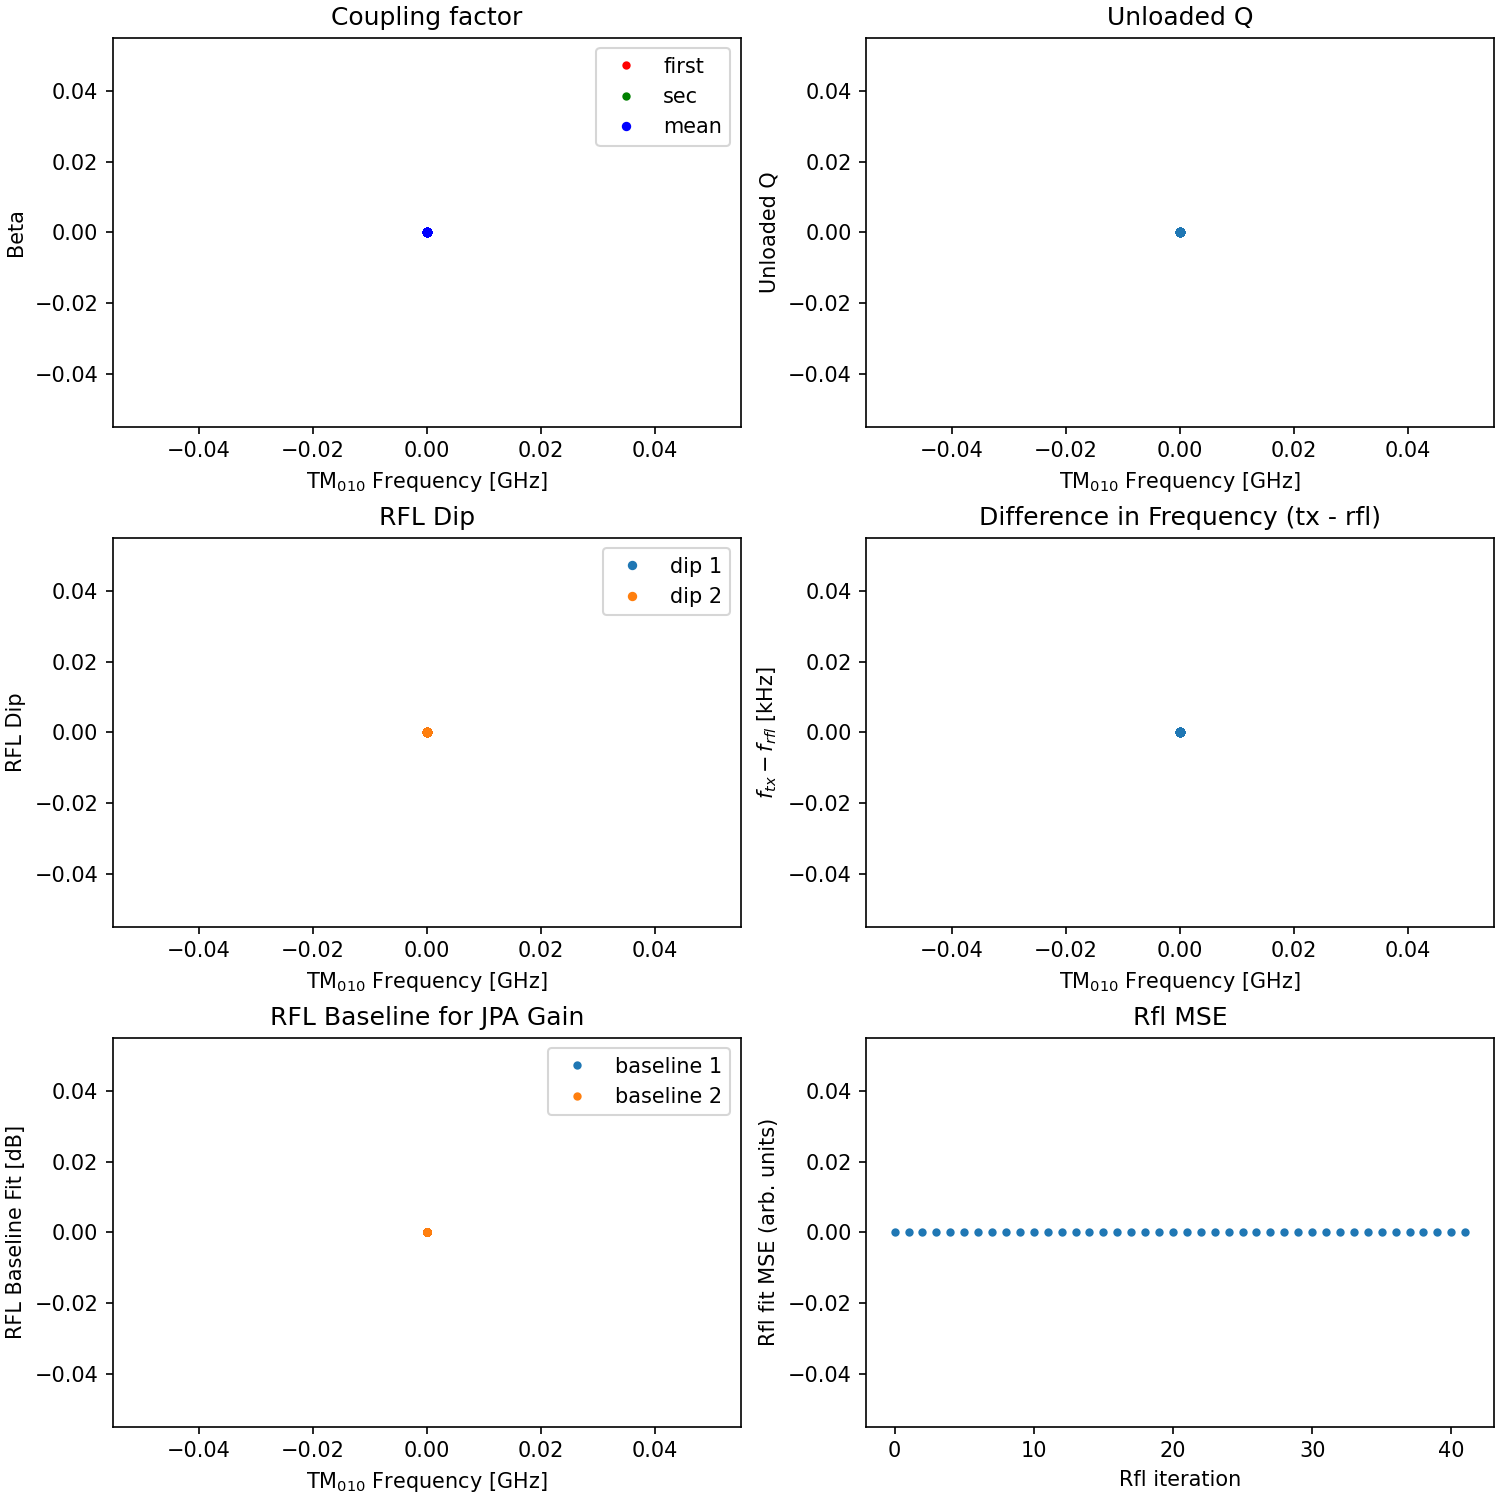
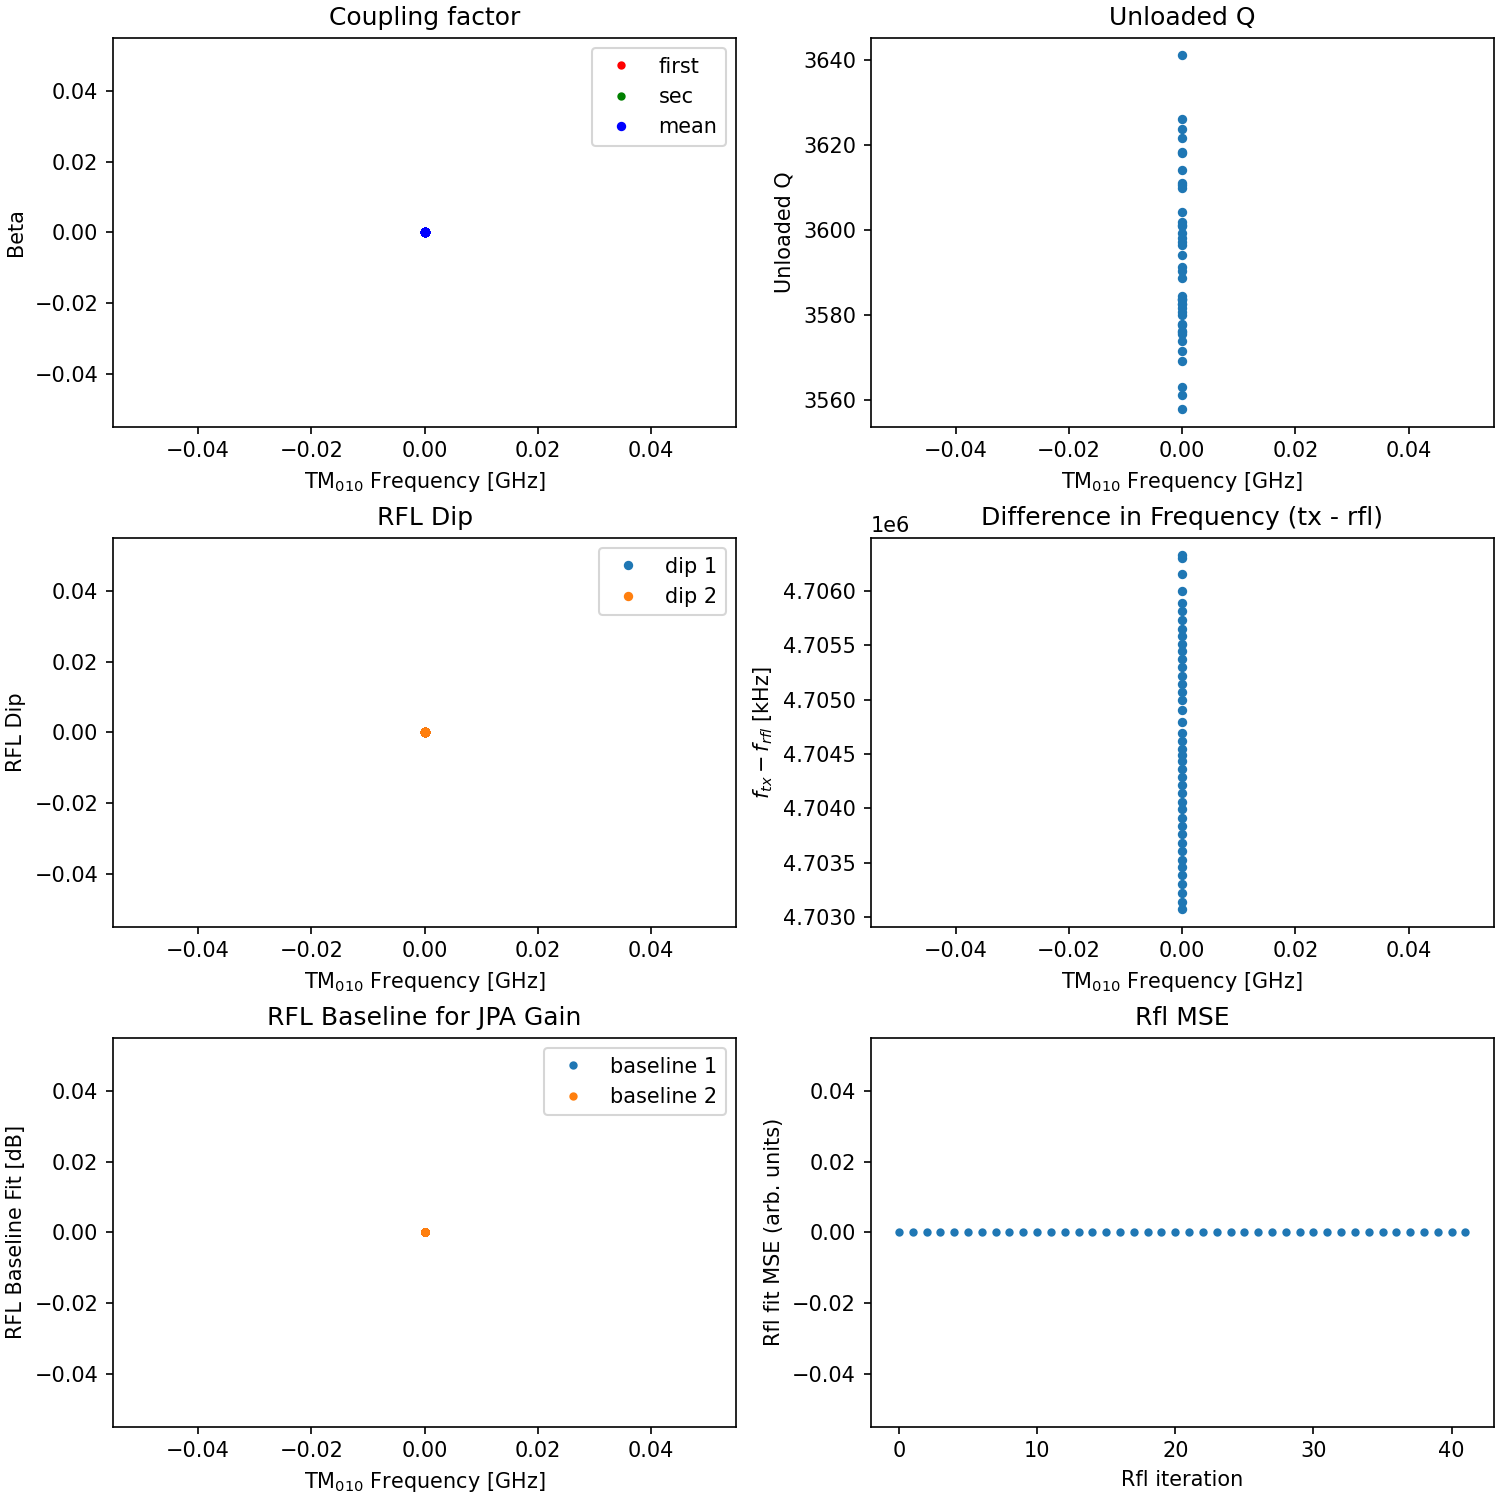
Fixed transmission_analysis

diff --git a/src/dark_photon/analysis/pipeline/stages/transmission_analysis.py b/src/dark_photon/analysis/pipeline/stages/transmission_analysis.py
@@ -94,14 +94,15 @@ class TransmissionAnalysisStage(PipelineStage):
                 warnings.warn(f"Error processing transmission file {tx2_file}: {e}")
                 continue
         
-        print(f"  TransmissionAnalysisStage: processed_count = {processed_count} (out of {num_files})")
-        print("  Example fitted params (first 3 entries):")
-        print("    params1[0]:", params1[0])
-        print("    params2[0]:", params2[0])
-        print("    params_avg[0]:", params_avg[0])
-        print("    mse_values[0]:", mse_values[0])
-        print("    freq_drifts_khz[0]:", freq_drifts_khz[0])
-        # Prepare scaleinfo updates [MODIFIED - added phase_info]
+        ##### Some debug
+        # print(f"  TransmissionAnalysisStage: processed_count = {processed_count} (out of {num_files})")
+        # print("  Example fitted params (first 3 entries):")
+        # print("    params1[0]:", params1[0])
+        # print("    params2[0]:", params2[0])
+        # print("    params_avg[0]:", params_avg[0])
+        # print("    mse_values[0]:", mse_values[0])
+        # print("    freq_drifts_khz[0]:", freq_drifts_khz[0])
+        
         scaleinfo_updates = {
             'txparams': params_avg.tolist(),
             'txdriftkHz': freq_drifts_khz.tolist(),
